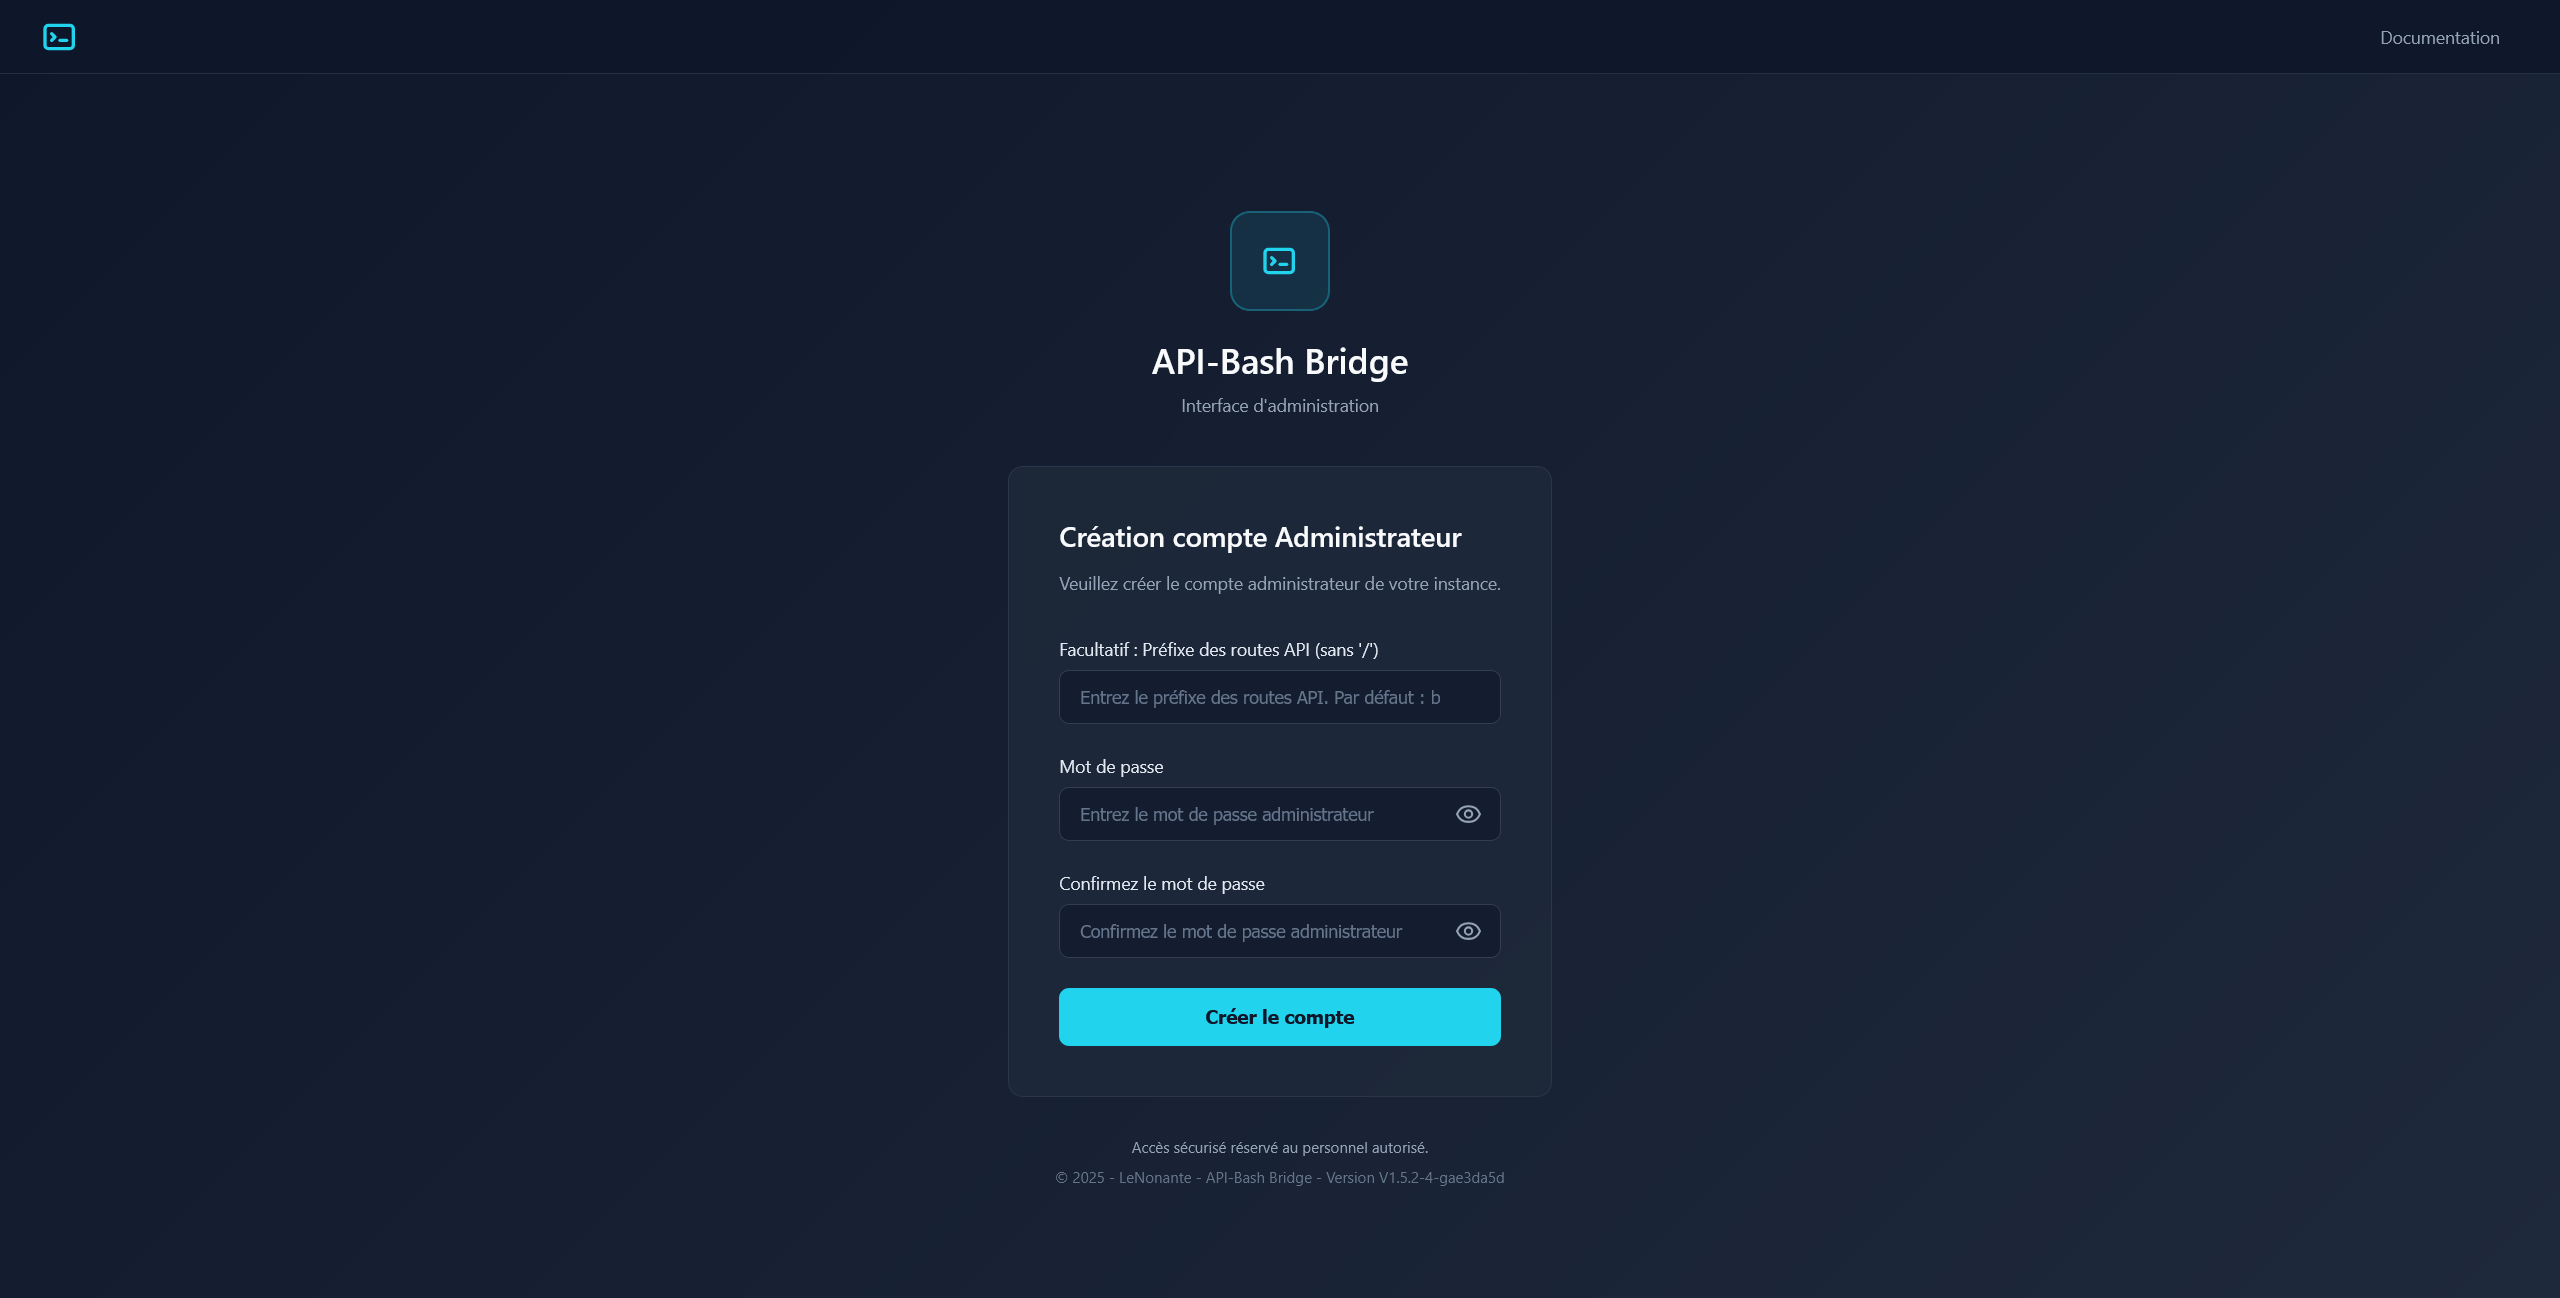
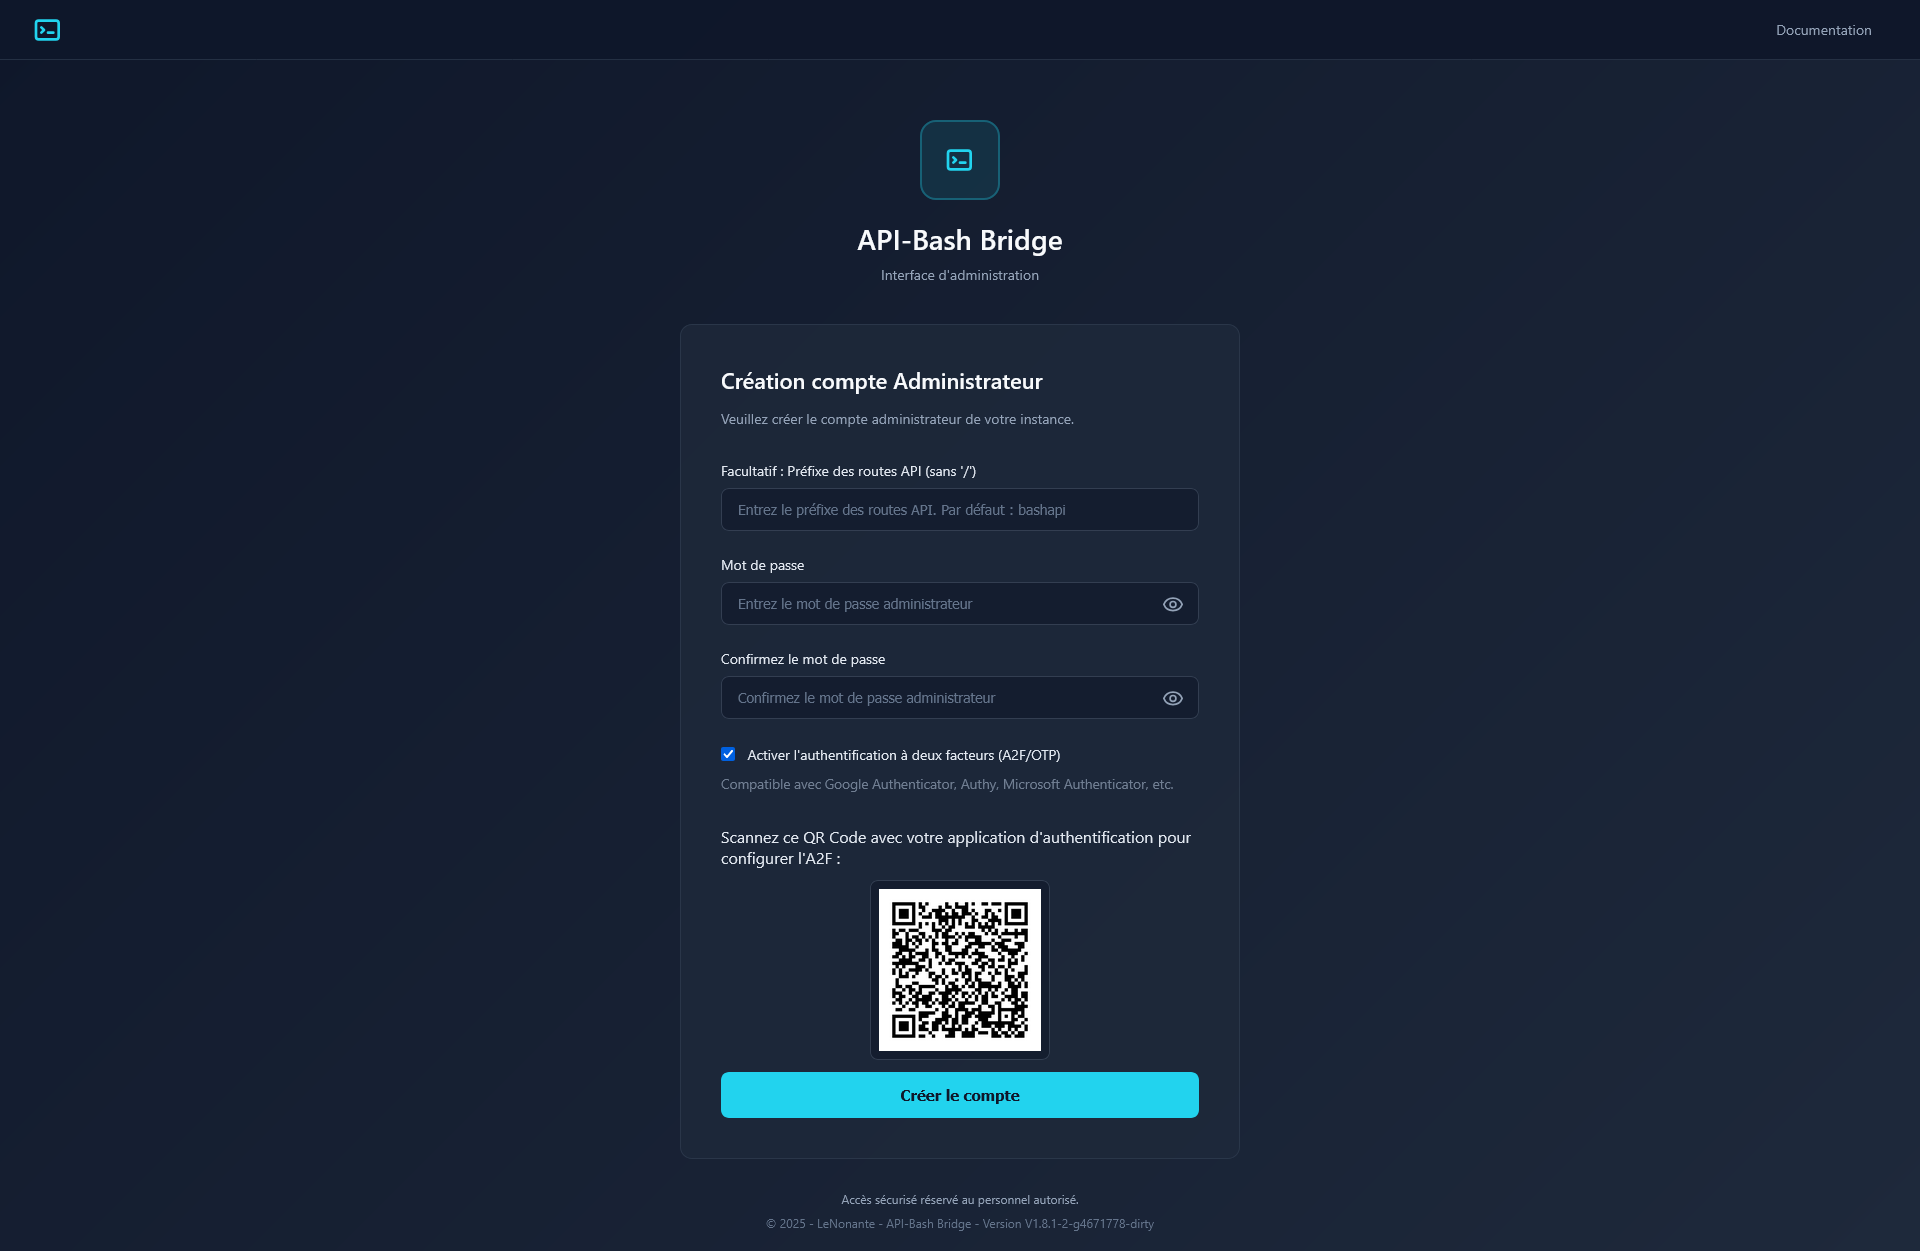
Ajout de l'A2F dans la doc d'utilisation. FIxes #28

diff --git a/static/docs.css b/static/docs.css
@@ -20,7 +20,13 @@
 .doc-content code { background: rgba(15, 23, 42, 0.6); padding: 2px 6px; border-radius: 4px; font-family: monospace; color: #22d3ee; }
 .doc-content pre { background: #0f172a; padding: 15px; border-radius: 8px; overflow-x: auto; margin: 15px 0; }
 .doc-content pre code { background: none; padding: 0; color: inherit; }
-.doc-content img { max-width: 100%; border-radius: 8px; border: 1px solid #475569; margin: 20px 0; }
+.doc-content img { 
+    max-width: 100%; 
+    border-radius: 8px; 
+    border: 1px solid #475569; 
+    margin: 20px auto; 
+    display: block;
+}
 .doc-content blockquote { border-left: 4px solid #22d3ee; padding-left: 15px; margin-left: 0; color: #94a3b8; }
 
 .doc-content ul, .doc-content ol {

diff --git a/services/doc_utilisation.md b/services/doc_utilisation.md
@@ -15,6 +15,8 @@ Lors du tout premier lancement de l'application, vous serez automatiquement redi
 
 - **Mot de passe Administrateur :** Choisissez un mot de passe fort. Il servira uniquement à accéder à l'interface web.
 
+- **Activez l'authentification à deux facteur :** Affiche un code QR à scanner avec votre téléphone (sur une application de double authentification OTP) pour confirmer chaque connexion avec un code sécurisé en plus du mot de passe. L'option est également activable/désactivable plus tard.
+
 Cliquez sur Créer le compte.
 
 Lors de sa création l'application est crée en mode "Whitelist". Plus de détails dans la section "Paramètres et Sécurité -> Filtrage IP" 
@@ -111,14 +113,26 @@ Accessible via le menu Paramètres.
 
 ![Image page de paramètres](/static/docs/settings.png)
 
-#### 1. Sauvegarde et Migration
+#### 1. Changement du mot de passe administrateur
+
+- La demande d'un nouveau mot de passe administrateur requiert la vérification du mot de passe actuel.
+
+#### 2. Gestion de la double authentification (A2F/OTP)
+
+- **Activation de l'A2F :** Si l'A2F est désactivée, il est possible de l'activer. Le QR code à scanner avec une application d'authentification apparait. Veillez à le scanner avant de recharger la page, car il disparaitra.
+
+- **Régénération du code :** Il est possible de demander un nouveau code d'A2F, pour invalider l'ancien. Cette action requiert la validation du mot de passe administrateur.
+
+- **Désactivation de l'A2F :** Si l'A2F est activée, il est possible de la désactiver. Cette action requiert la validation du mot de passe administrateur.
+
+#### 3. Sauvegarde et Migration
 
 - **Exporter commandes.json :** Télécharge un fichier JSON contenant toute votre configuration (routes, commandes, hash des tokens).
 - **Importer :** Permet de restaurer une configuration ou de la dupliquer sur un autre serveur.
 
-> **Attention :** Seules les routes (avec commandes, token hashé, et état) sont exportées. Les listes (blacklist et whitelist) ne sont pas exportées.
+> **Attention :** Seules les routes (avec commandes, token hashé, et état) sont exportées. Les listes (blacklist et whitelist) ne sont pas exportées ici (voir plus bas).
 
-#### 2. Logs et Audit
+#### 4. Logs et Audit
 
 L'application enregistre toutes les tentatives d'accès.
 
@@ -127,7 +141,7 @@ L'application enregistre toutes les tentatives d'accès.
 
 Les logs contiennet uniquement les tentatives d'accès à l'API, et non à l'interface.
 
-#### 3. Filtrage IP (Whitelist / Blacklist)
+#### 5. Filtrage IP (Whitelist / Blacklist)
 
 Vous pouvez restreindre l'accès à l'API (et non à l'interface admin) selon l'adresse IP de l'appelant.
 
